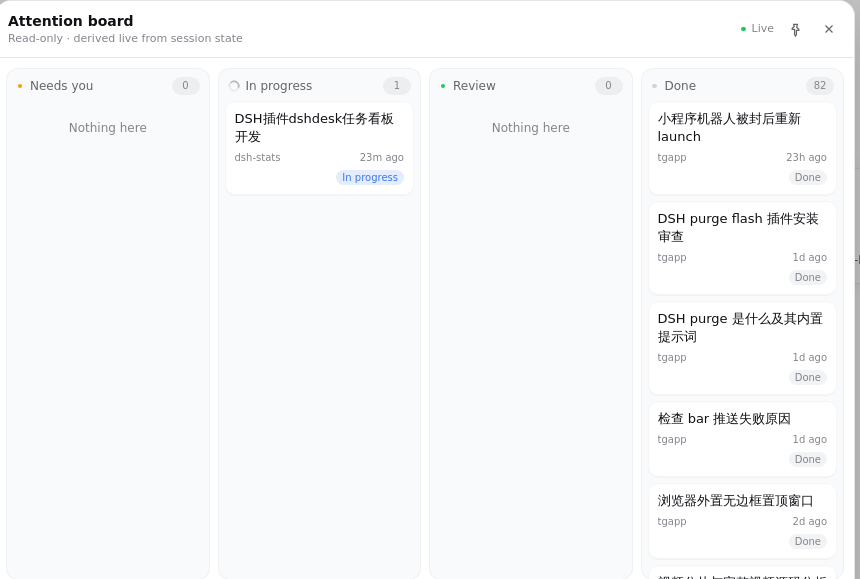
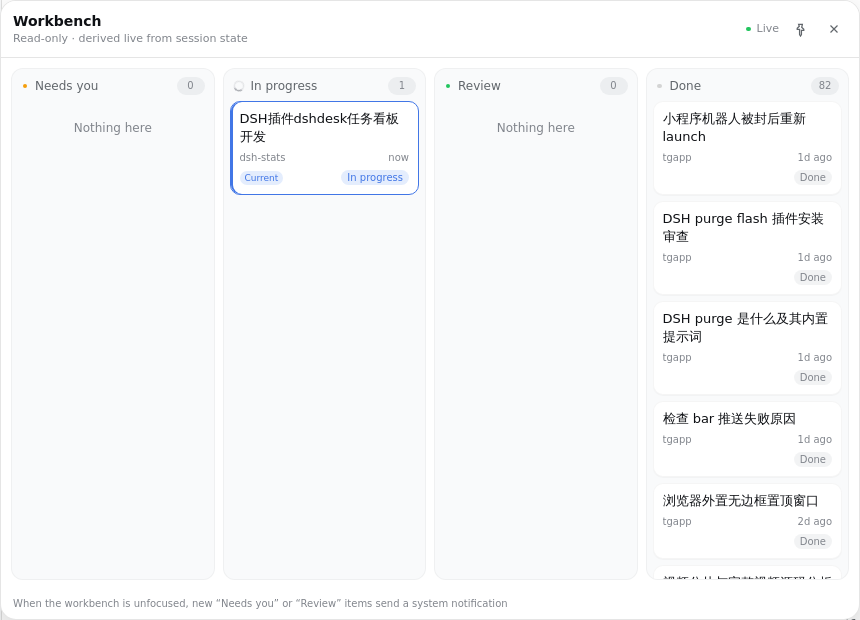
Copy: rename the UI to 工作台, keep 看板 in the introduction

diff --git a/client.js b/client.js
@@ -80,7 +80,7 @@ window.__ModuleLoader__.load({
           total: '{count} 项',
           dotNeeds: '需要你 {count}',
           dotReview: '验收 {count}',
-          board: '看板',
+          board: '工作台',
           close: '关闭',
           pin: '钉成置顶小窗',
           pinUnavailable: '网页中不提供置顶窗',
@@ -114,7 +114,7 @@ window.__ModuleLoader__.load({
           total: '{count} items',
           dotNeeds: 'Needs you {count}',
           dotReview: 'Review {count}',
-          board: 'Board',
+          board: 'Workbench',
           close: 'Close',
           pin: 'Pin as always-on-top window',
           pinUnavailable: 'No always-on-top window in a browser',
@@ -472,9 +472,9 @@ window.__ModuleLoader__.load({
           }
 
     const DICT_ZH = {
-      'button.title': '任务看板',
-      'button.aria': '任务看板：进行中 {running} 项，需要你 {needs} 项，验收 {review} 项',
-      'button.label': '任务看板',
+      'button.title': '工作台',
+      'button.aria': '工作台：进行中 {running} 项，需要你 {needs} 项，验收 {review} 项',
+      'button.label': '工作台',
       'panel.close': '关闭',
       'panel.pin': '钉成置顶小窗',
       'panel.pinActive': '关闭置顶小窗',
@@ -489,10 +489,10 @@ window.__ModuleLoader__.load({
       'panel.opacity': '透明度',
       'panel.alwaysOnTop': '置顶',
       'panel.unpin': '取消置顶',
-      'panel.notificationHint': '看板未聚焦时，新进入「需要你」或「验收」会发系统通知',
+      'panel.notificationHint': '工作台未聚焦时，新进入「需要你」或「验收」会发系统通知',
       'panel.loading': '正在读取…',
       'panel.error': '读取失败，请稍后重试',
-      'panel.drag': '拖动看板',
+      'panel.drag': '拖动工作台',
       'panel.ready': '实时',
       'panel.pinned': '已钉住',
       'panel.browser': '网页版',
@@ -500,9 +500,9 @@ window.__ModuleLoader__.load({
     }
 
     const DICT_EN = {
-      'button.title': 'Attention board',
-      'button.aria': 'Attention board: {running} in progress, {needs} need you, {review} to review',
-      'button.label': 'Task board',
+      'button.title': 'Workbench',
+      'button.aria': 'Workbench: {running} in progress, {needs} need you, {review} to review',
+      'button.label': 'Workbench',
       'panel.close': 'Close',
       'panel.pin': 'Pin as always-on-top',
       'panel.pinActive': 'Close pinned window',
@@ -517,10 +517,10 @@ window.__ModuleLoader__.load({
       'panel.opacity': 'Opacity',
       'panel.alwaysOnTop': 'Always on top',
       'panel.unpin': 'Stop always on top',
-      'panel.notificationHint': 'When the board is unfocused, new “Needs you” or “Review” items send a system notification',
+      'panel.notificationHint': 'When the workbench is unfocused, new “Needs you” or “Review” items send a system notification',
       'panel.loading': 'Reading…',
-      'panel.error': 'Could not read the board; try again shortly',
-      'panel.drag': 'Drag board',
+      'panel.error': 'Could not read the workbench; try again shortly',
+      'panel.drag': 'Drag workbench',
       'panel.ready': 'Live',
       'panel.pinned': 'Pinned',
       'panel.browser': 'Browser',

diff --git a/src/client.template.js b/src/client.template.js
@@ -54,9 +54,9 @@ window.__ModuleLoader__.load({
           }
 
     const DICT_ZH = {
-      'button.title': '任务看板',
-      'button.aria': '任务看板：进行中 {running} 项，需要你 {needs} 项，验收 {review} 项',
-      'button.label': '任务看板',
+      'button.title': '工作台',
+      'button.aria': '工作台：进行中 {running} 项，需要你 {needs} 项，验收 {review} 项',
+      'button.label': '工作台',
       'panel.close': '关闭',
       'panel.pin': '钉成置顶小窗',
       'panel.pinActive': '关闭置顶小窗',
@@ -71,10 +71,10 @@ window.__ModuleLoader__.load({
       'panel.opacity': '透明度',
       'panel.alwaysOnTop': '置顶',
       'panel.unpin': '取消置顶',
-      'panel.notificationHint': '看板未聚焦时，新进入「需要你」或「验收」会发系统通知',
+      'panel.notificationHint': '工作台未聚焦时，新进入「需要你」或「验收」会发系统通知',
       'panel.loading': '正在读取…',
       'panel.error': '读取失败，请稍后重试',
-      'panel.drag': '拖动看板',
+      'panel.drag': '拖动工作台',
       'panel.ready': '实时',
       'panel.pinned': '已钉住',
       'panel.browser': '网页版',
@@ -82,9 +82,9 @@ window.__ModuleLoader__.load({
     }
 
     const DICT_EN = {
-      'button.title': 'Attention board',
-      'button.aria': 'Attention board: {running} in progress, {needs} need you, {review} to review',
-      'button.label': 'Task board',
+      'button.title': 'Workbench',
+      'button.aria': 'Workbench: {running} in progress, {needs} need you, {review} to review',
+      'button.label': 'Workbench',
       'panel.close': 'Close',
       'panel.pin': 'Pin as always-on-top',
       'panel.pinActive': 'Close pinned window',
@@ -99,10 +99,10 @@ window.__ModuleLoader__.load({
       'panel.opacity': 'Opacity',
       'panel.alwaysOnTop': 'Always on top',
       'panel.unpin': 'Stop always on top',
-      'panel.notificationHint': 'When the board is unfocused, new “Needs you” or “Review” items send a system notification',
+      'panel.notificationHint': 'When the workbench is unfocused, new “Needs you” or “Review” items send a system notification',
       'panel.loading': 'Reading…',
-      'panel.error': 'Could not read the board; try again shortly',
-      'panel.drag': 'Drag board',
+      'panel.error': 'Could not read the workbench; try again shortly',
+      'panel.drag': 'Drag workbench',
       'panel.ready': 'Live',
       'panel.pinned': 'Pinned',
       'panel.browser': 'Browser',
